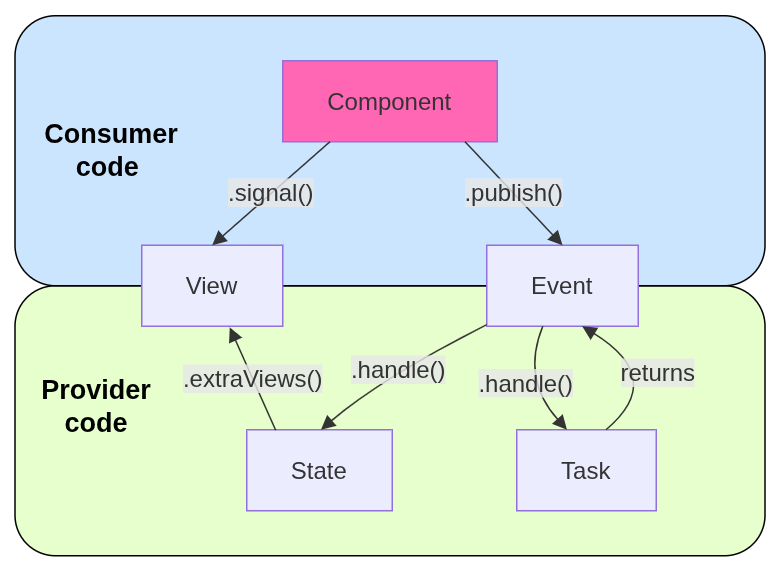
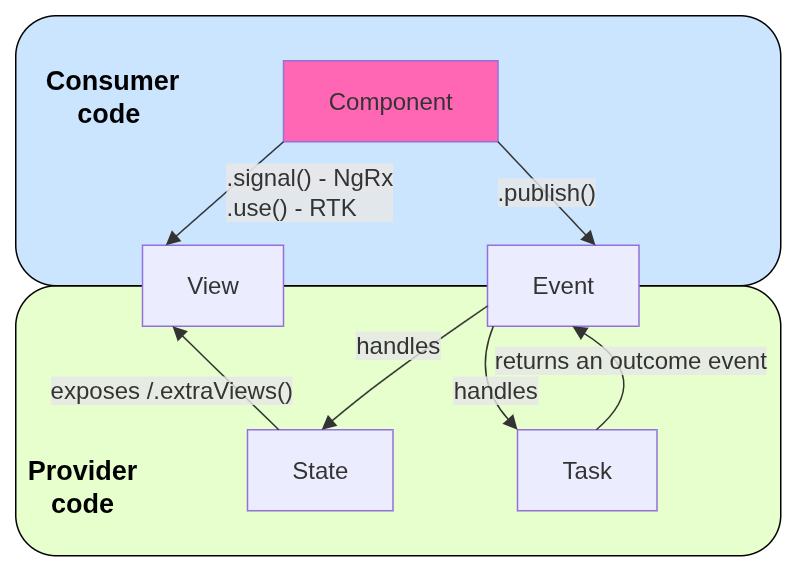
feat(eslint): add eslint support for evst/rtk

diff --git a/packages/eslint-plugin/src/index.ts b/packages/eslint-plugin/src/index.ts
@@ -10,7 +10,19 @@ import noViewSubscriptionSuppressionReason from "./rules/no-view-subscription-su
 import requireTaskEvent from "./rules/require-task-event";
 import requireTaskEventSuppressionReason from "./rules/require-task-event-suppression-reason";
 
-/** ESLint plugin providing rules for event-oriented NgRx applications. */
+const core = {
+  rules: {
+    "evst/event-group-source-prefix": "warn",
+    "evst/event-publisher-ownership": "warn",
+    "evst/no-duplicate-event-handlers": "warn",
+    "evst/no-sequential-event-publishes": "warn",
+    "evst/no-unpublished-events": "warn",
+    "evst/no-unsubscribed-events": "warn",
+    "evst/no-unused-views": "warn",
+  },
+} as const;
+
+/** ESLint plugin providing rules for EVST applications using NgRx or RTK. */
 const plugin = {
   /** Package identity reported to ESLint. */
   meta: { name: "@evst/eslint-plugin", version: "0.1.0" },
@@ -30,6 +42,17 @@ const plugin = {
     "require-task-event-suppression-reason": requireTaskEventSuppressionReason,
   },
   configs: {
+    core,
+    rtk: { rules: { ...core.rules } },
+    "evst-ngrx": {
+      rules: {
+        ...core.rules,
+        "evst/no-view-subscription": "warn",
+        "evst/no-view-subscription-suppression-reason": "error",
+        "evst/require-task-event": "warn",
+        "evst/require-task-event-suppression-reason": "error",
+      },
+    },
     ngrx: {
       rules: {
         "evst/event-publisher-ownership": "warn",

diff --git a/packages/eslint-plugin/test/fixtures/rtk/books.ts b/packages/eslint-plugin/test/fixtures/rtk/books.ts
@@ -1,0 +1,25 @@
+import { emptyProps, events, props, state, task, view } from "@evst/rtk";
+
+export const fromBooksPage = events("Books Page", {
+  entered: emptyProps(),
+  unused: emptyProps(),
+});
+export const fromBooksApi = events("Books API", {
+  loaded: props<{ titles: string[] }>(),
+});
+export const booksState = state("books", { titles: [] as string[] })
+  .extraViews(({ titles }) => ({
+    total: view(titles, (titles) => titles.length),
+    unused: view(titles, (titles) => titles.join(", ")),
+  }))
+  .handle((on) => ({
+    loaded: on(fromBooksApi.loaded, (current, { titles }) => {
+      current.titles = titles;
+    }),
+  }));
+export const booksViews = booksState.views;
+export const booksTasks = task.handle((on) => ({
+  load: on(fromBooksPage.entered, async () => {
+    return fromBooksApi.loaded({ titles: ["The Hobbit"] });
+  }),
+}));

diff --git a/packages/eslint-plugin/test/fixtures/rtk/page.tsx b/packages/eslint-plugin/test/fixtures/rtk/page.tsx
@@ -1,0 +1,8 @@
+import { useEffect } from "react";
+import { booksViews, fromBooksPage } from "./books";
+
+export function BooksPage() {
+  const total = booksViews.total.use();
+  useEffect(() => fromBooksPage.entered.publish(), []);
+  return <p>{total}</p>;
+}

diff --git a/packages/eslint-plugin/README.md b/packages/eslint-plugin/README.md
@@ -1,6 +1,6 @@
 # EVST ESLint plugin
 
-ESLint rules for event-oriented NgRx applications.
+ESLint rules for EVST applications using NgRx or Redux Toolkit.
 
 The source, complete documentation, API reference, and Books examples for this
 package are in the main [EVST repository](https://github.com/fredyang/evst).
@@ -18,11 +18,26 @@ npm test --workspace @evst/eslint-plugin
 npm pack --workspace @evst/eslint-plugin
 ```
 
-The generated `evst-eslint-0.1.0.tgz` can be installed in a consuming project with `npm install --save-dev /path/to/evst-eslint-0.1.0.tgz`.
+In a consuming application:
+
+```sh
+npm install --save-dev @evst/eslint-plugin eslint typescript-eslint
+```
 
 ## Configuring ESLint
 
-Flat configuration for an EVST application (`eslint.config.mjs`):
+All presets use the same `evst/` rule namespace. The framework presets include
+the shared rules; combining them with `core` is unnecessary.
+
+| Preset      | Purpose                                                                                                                             |
+| ----------- | ----------------------------------------------------------------------------------------------------------------------------------- |
+| `core`      | Shared event naming, publisher ownership, sequential publication, duplicate state handlers, unused events, and unused derived Views |
+| `rtk`       | Complete preset for `@evst/rtk`; currently the same rules as `core`                                                                 |
+| `evst-ngrx` | Shared rules plus Angular View-subscription and NgRx Task-source rules                                                              |
+| `evst`      | Existing NgRx-oriented EVST preset, preserved for compatibility                                                                     |
+| `ngrx`      | Existing plain-NgRx preset, preserved for compatibility                                                                             |
+
+Flat configuration for React and `@evst/rtk` (`eslint.config.mjs`):
 
 ```js
 import tseslint from "typescript-eslint";
@@ -30,18 +45,51 @@ import evst from "@evst/eslint-plugin";
 
 export default [
   {
-    files: ["**/*.ts"],
-    languageOptions: { parser: tseslint.parser },
+    files: ["src/**/*.{ts,tsx}"],
+    languageOptions: {
+      parser: tseslint.parser,
+      parserOptions: {
+        project: "./tsconfig.eslint.json",
+        tsconfigRootDir: import.meta.dirname,
+      },
+    },
     plugins: { evst },
-    ...evst.configs.evst,
+    ...evst.configs.rtk,
   },
 ];
 ```
 
-The `ngrx` preset supports standard NgRx actions and Store dispatches. It
-includes action-type hygiene, repeated action dispatch detection, and multiple
-dispatch detection within one executable boundary. EVST-specific rules,
-including source-oriented event-group naming, remain in the `evst` preset.
+The lint TypeScript project should include application sources and exclude
+tests so test publications do not count as application publishers:
+
+```json
+{
+  "extends": "./tsconfig.json",
+  "include": ["src/**/*.ts", "src/**/*.tsx"],
+  "exclude": ["src/**/*.spec.ts", "src/**/*.spec.tsx"]
+}
+```
+
+For `@evst/ngrx`, the same configuration can use `evst.configs["evst-ngrx"]`.
+The RTK preset excludes Angular Observable-subscription guidance and NgRx
+eventless Task rules. RTK Tasks already require an event argument.
+
+Type-aware analysis recognizes View references in TSX, including `.use()`,
+and event creators called inside Tasks, including async returned outcomes.
+Unused-event and unused-View checks need a TypeScript project. Publisher
+ownership checks span the project when configured and otherwise inspect only
+the current file.
+
+These checks retain the existing static-analysis limits: several helpers
+recognize conventional names such as `events`, `state`, `task`, and `on`.
+Publisher ownership and sequential-publication checks inspect explicit
+`.publish()` and `.dispatch()` calls; they do not enforce ownership of
+returned Task outcomes. The unused-event check treats event creator calls
+inside Tasks as publications without proving that they are returned.
+
+The `ngrx` preset supports explicit Store dispatch checks and duplicate EVST
+state-handler checks. EVST-specific source naming and usage analysis remain
+in the EVST presets.
 
 ```js
 import tseslint from "typescript-eslint";

diff --git a/packages/rtk/README.md b/packages/rtk/README.md
@@ -16,6 +16,7 @@ Redux Toolkit store, React Redux `Provider`, and Redux ecosystem compatibility.
 - [Configuring the store](#configuring-the-store)
 - [Registering lazy state](#registering-lazy-state)
 - [Working with Redux Toolkit](#working-with-redux-toolkit)
+- [Enforcing event conventions](#enforcing-event-conventions)
 - [Testing features](#testing-features)
 - [Exploring the Books example](#exploring-the-books-example)
 
@@ -249,6 +250,20 @@ EVST is an RTK extension, not a replacement. Its store is usable anywhere an
 RTK store is expected, and its events are ordinary RTK action creators. Existing
 RTK reducers, `createSlice`, `createEntityAdapter`, listener middleware,
 DevTools, and React Redux APIs remain available when they fit the application.
+
+## Enforcing event conventions
+
+`@evst/eslint-plugin` provides an `rtk` preset for shared EVST conventions,
+including source naming, publisher ownership, duplicate state handlers, and
+unused events and derived Views. It supports TypeScript and TSX. The
+[plugin guide](../eslint-plugin/README.md#configuring-eslint) documents
+configuration, type-aware analysis, and rule limitations.
+
+From the repository root, the Books example can be checked with:
+
+```sh
+npm run lint:evst-rtk-books
+```
 
 ## Testing features
 
